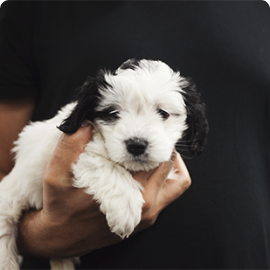
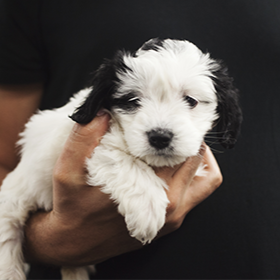
fix: replace imgs with dark background, fix styles

diff --git a/shelter/CSS/style.scss b/shelter/CSS/style.scss
@@ -471,6 +471,7 @@ a {
         cursor: pointer;
         img {
             margin-bottom: 22px;
+            border-radius: 9px;
         }
         figcaption{
             margin-bottom: 29.8px;
@@ -612,12 +613,13 @@ a {
 }
 .popup-img {
     width: 55.56%;
-    background: no-repeat center/contain;
+    background: no-repeat center/cover;
     border-top-left-radius: inherit;
     border-bottom-left-radius: inherit;
     border-top-right-radius: 0;
     @media screen and (max-width: 724px)  {
-        width: 40%;
+        width: 50%;
+        background-size: 160%;
     }
     @media screen and (max-width: 515px)  {
         display: none;
@@ -628,6 +630,7 @@ a {
     padding-right: 20px;
     overflow: hidden;
     @media screen and (max-width: 1000px)  {
+        margin-left: 11px;
         padding-right: 9px;
         max-width: calc(100% - 55.56% - 9px);
     }
@@ -637,6 +640,7 @@ a {
     @media screen and (max-width: 515px)  {
         max-width: 100%;
         padding-right: 0;
+        margin-left: 0;
     }
     .popup-heading{
         margin-top: 50px;
@@ -1200,6 +1204,7 @@ a {
             max-width: 436px;
             img {
                 margin-bottom: 23px;
+                border-radius: 9px;
             }
             figcaption{
                 padding-bottom: 30px;

diff --git a/shelter/CSS/style.css b/shelter/CSS/style.css
@@ -543,6 +543,7 @@ ul .disabled-link {
 }
 .friends .friends-slider-item img {
   margin-bottom: 22px;
+  border-radius: 9px;
 }
 .friends .friends-slider-item figcaption {
   margin-bottom: 29.8px;
@@ -711,14 +712,15 @@ ul .disabled-link {
 
 .popup-img {
   width: 55.56%;
-  background: no-repeat center/contain;
+  background: no-repeat center/cover;
   border-top-left-radius: inherit;
   border-bottom-left-radius: inherit;
   border-top-right-radius: 0;
 }
 @media screen and (max-width: 724px) {
   .popup-img {
-    width: 40%;
+    width: 50%;
+    background-size: 160%;
   }
 }
 @media screen and (max-width: 515px) {
@@ -734,6 +736,7 @@ ul .disabled-link {
 }
 @media screen and (max-width: 1000px) {
   .popup-info {
+    margin-left: 11px;
     padding-right: 9px;
     max-width: calc(44.44% - 9px);
   }
@@ -747,6 +750,7 @@ ul .disabled-link {
   .popup-info {
     max-width: 100%;
     padding-right: 0;
+    margin-left: 0;
   }
 }
 .popup-info .popup-heading {
@@ -1425,6 +1429,7 @@ ul .disabled-link {
 }
 .our-friends .our-friends-wrapper .friends-slider-item img {
   margin-bottom: 23px;
+  border-radius: 9px;
 }
 .our-friends .our-friends-wrapper .friends-slider-item figcaption {
   padding-bottom: 30px;
